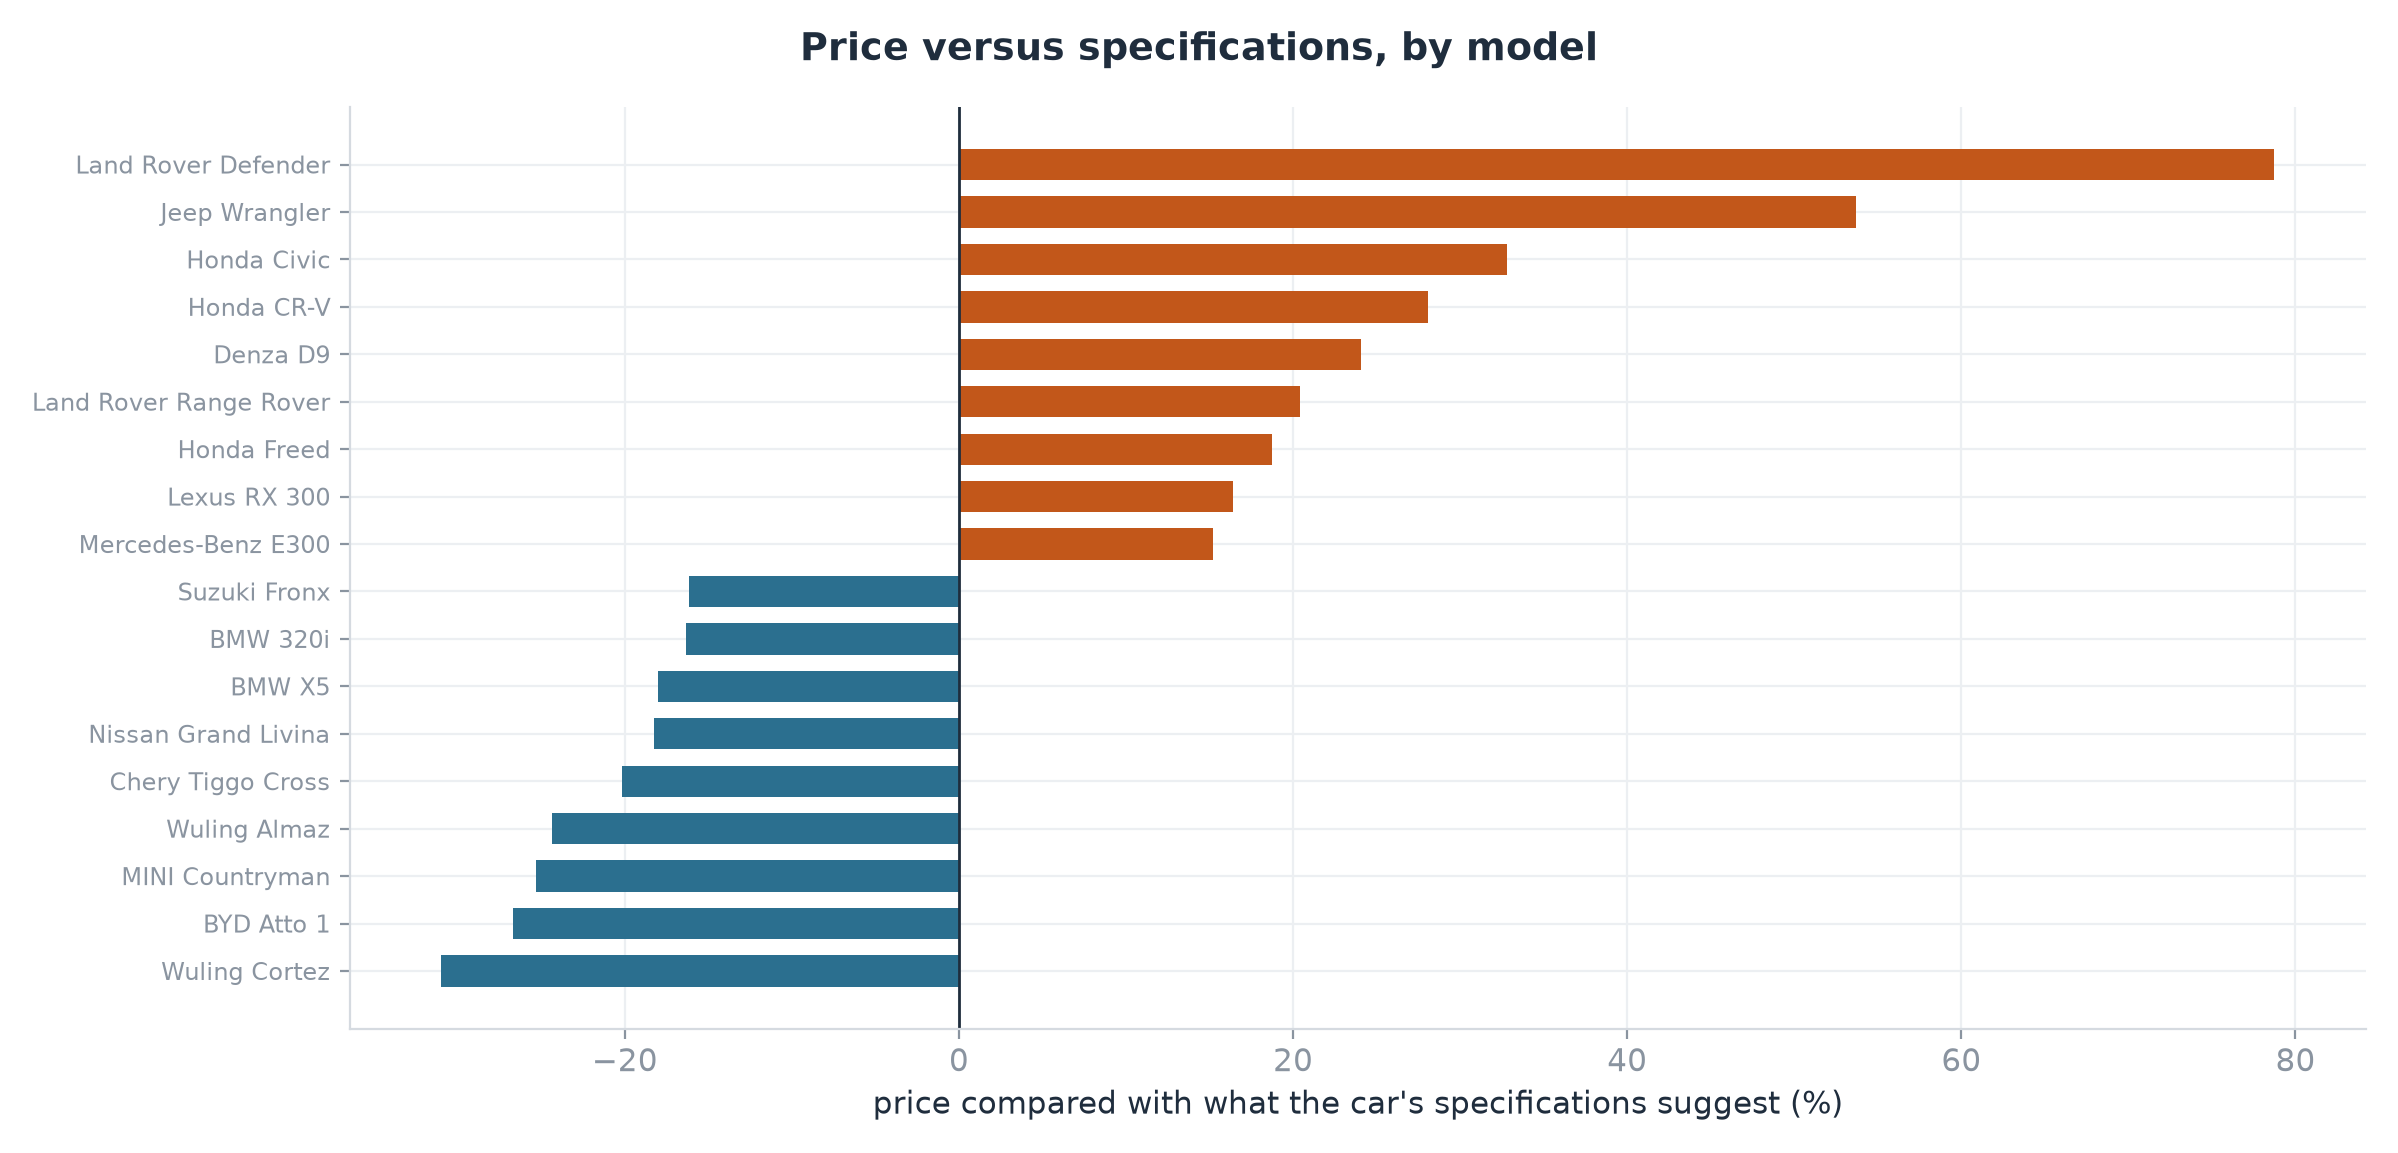
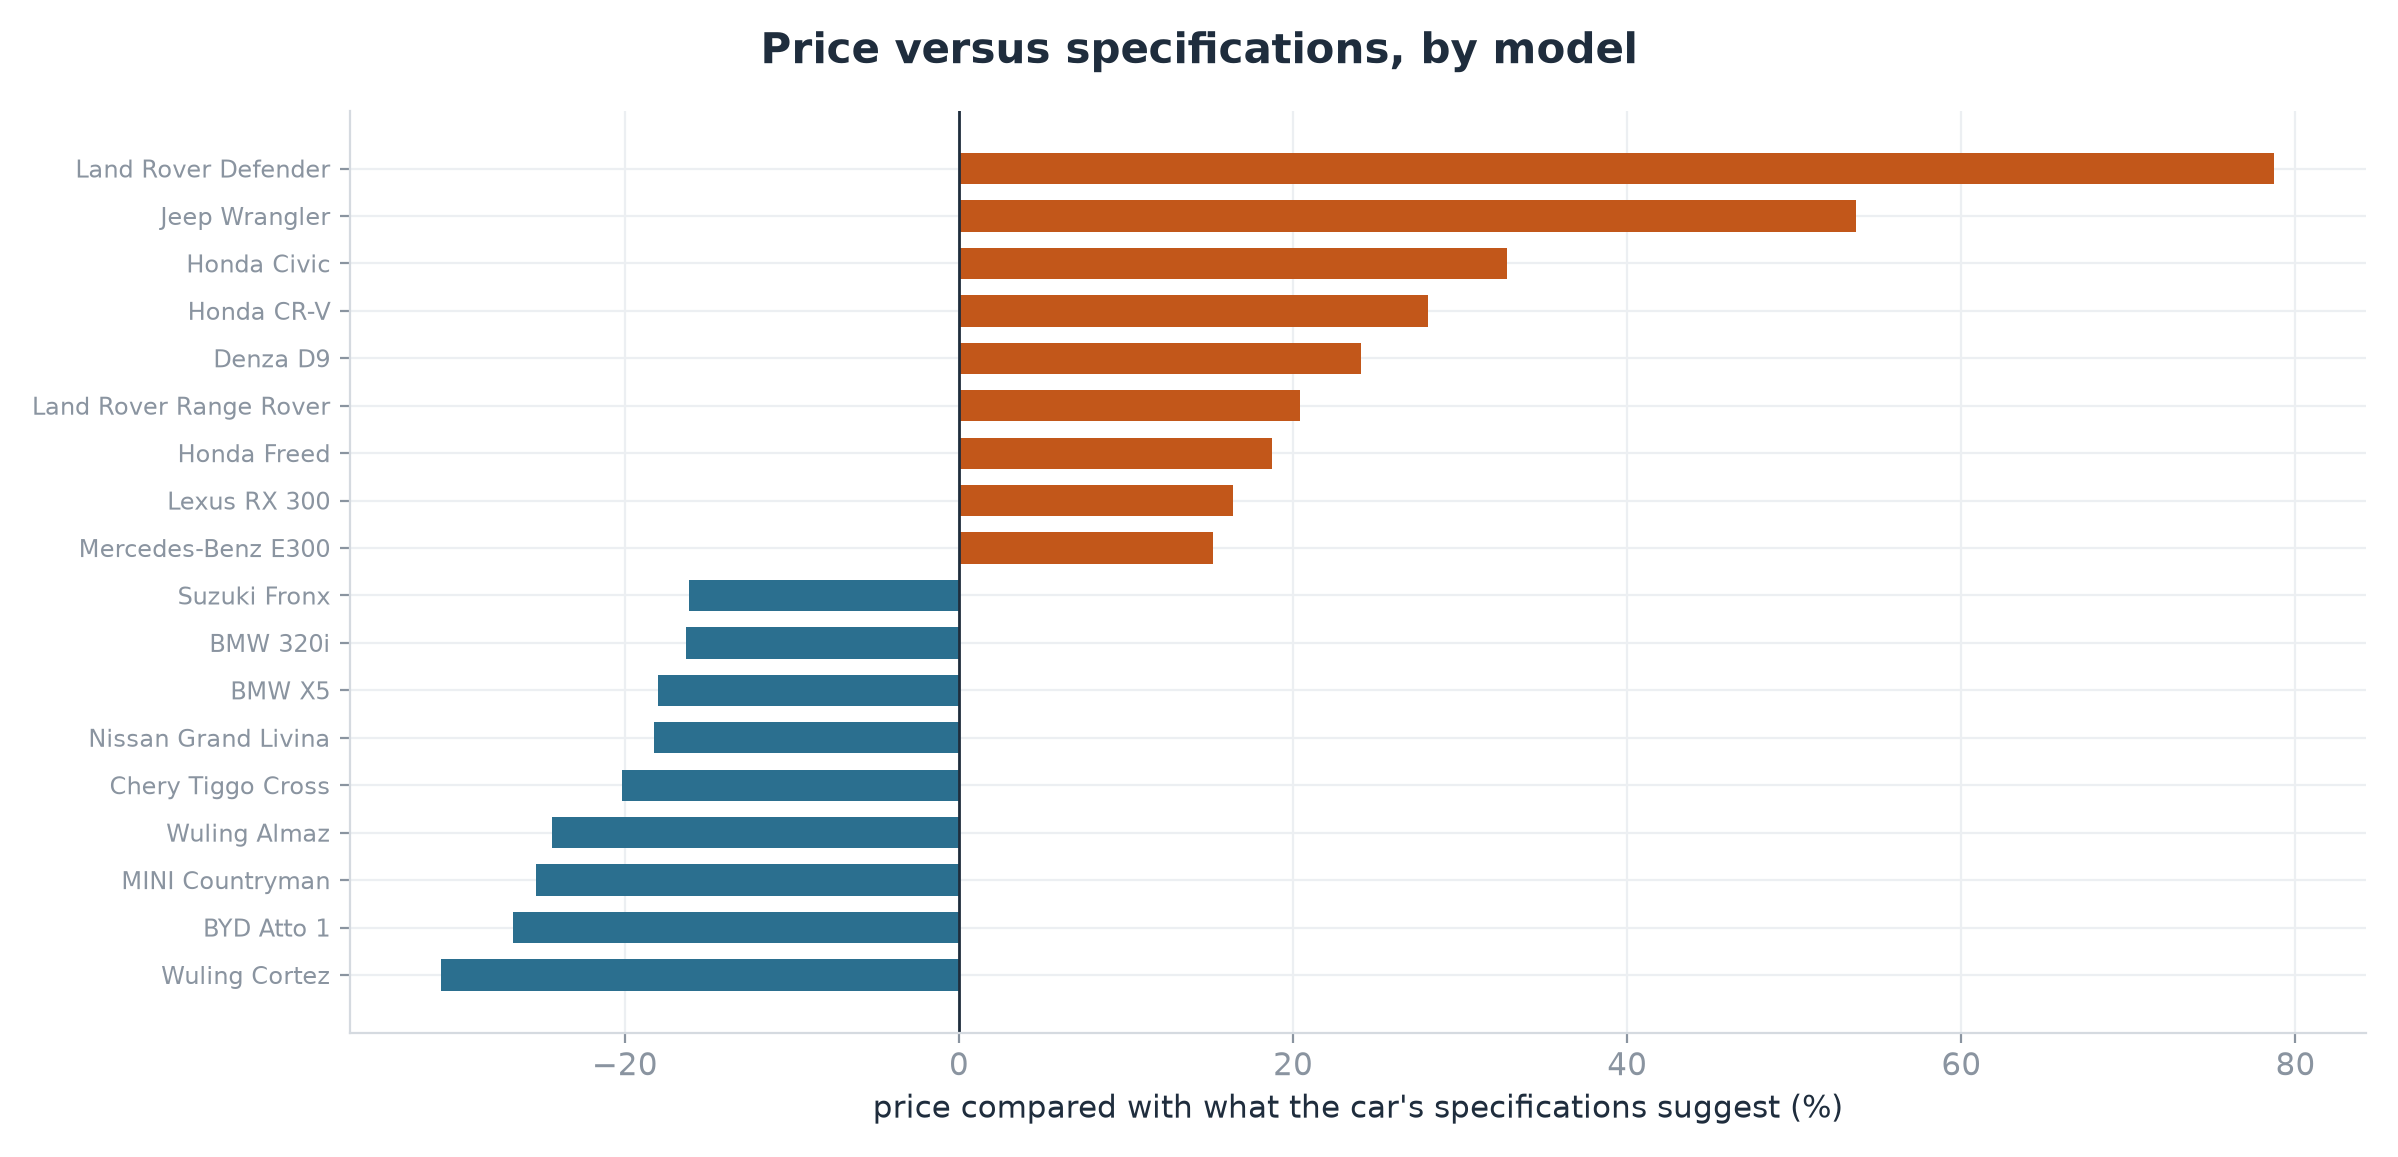
Even out panel titles, enlarge chart titles, and clarify axes and copy
Every panel label is now the same weight and colour, a step below a slightly larger figure title. The mileage and transmission x-axes say which price is subtracted from which, and the captions explain what a negative value means. The retention card bolds only the two key figures, 'dearer' and 'Line up' are replaced, the forward reference between charts is dropped, and the methodology block states that the percentages are errors.

diff --git a/projects/02-used-car-market/index.html b/projects/02-used-car-market/index.html
@@ -114,8 +114,8 @@
                 For every extra year on the road, a Suzuki loses about 4.4% of its value, a
                 Toyota 5.6% and a BMW 13.0%. Everyone knows Japanese cars hold value
                 better; the surprise is how wide the gap is.
-                <strong>Ten years on, a BMW asks roughly a fifth of what a one-year-old
-                one does &mdash; a Suzuki or a Toyota about half.</strong>
+                Ten years on, a BMW asks roughly <strong>a fifth</strong> of what a
+                one-year-old one does &mdash; a Suzuki or a Toyota about <strong>half</strong>.
               </p>
             </div>
 
@@ -123,9 +123,9 @@
               <span class="finding-tag finding-tag--neu">Transmission</span>
               <h2 class="finding-title">An automatic is worth 5.8% more, not 125%</h2>
               <p>
-                Line up every automatic against every manual and the automatic looks 125%
-                dearer. That number is meaningless: it is really comparing family cars with
-                delivery vans. Compare the automatic and manual versions of the
+                Compare every automatic with every manual and the automatic looks 125% more
+                expensive. That number is meaningless: it is really comparing family cars
+                with delivery vans. Compare the automatic and manual versions of the
                 <strong>same model and year</strong> and the gap falls to about
                 <strong>5.8%</strong>.
               </p>
@@ -154,7 +154,7 @@
               extra year of age. The thin lines show how much the brand&rsquo;s own models
               differ. Only brands with at least three models are shown, and the median is
               used instead of an average so that one extremely expensive listing cannot
-              distort the picture.
+              distort the picture. The three that hold value best are picked out in orange.
             </figcaption>
           </figure>
 
@@ -169,7 +169,7 @@
               so a point at 40 means that age sells for 40% of the one-year-old price. The
               dotted line marks half that price. <strong>Read the slope, not the last
               point:</strong> at twelve years old the car is a different generation, so the
-              right-hand end of each curve mixes depreciation with a model change.
+              right-hand end of each curve mixes depreciation with a model change. A single year sitting higher than its neighbour is a model-year effect, such as a new variant, not an error.
             </figcaption>
           </figure>
 
@@ -180,12 +180,13 @@
               loading="lazy" decoding="async" />
             <figcaption>
               <strong>The same comparison, done twice.</strong> On the left every listing is
-              pooled, and an automatic looks 125% dearer &mdash; but that is mostly
+              pooled, and an automatic looks 125% more expensive &mdash; but that is mostly
               comparing expensive family cars with cheap vans. On the right, the automatic
               and manual versions of the <em>same model and year</em> are compared directly:
               the typical gap is 5.8%, likely somewhere between 3.1% and 10.6%. Only one
               such pair is older than five years, so the age pattern on the right is a hint,
-              not a conclusion.
+              not a conclusion. A dot to the left of zero means the automatic was the
+              cheaper of the two.
             </figcaption>
           </figure>
 
@@ -203,7 +204,8 @@
               qualified, with a median odometer of 22,500 km against 62,500 km. Each dot is
               one model-year; the orange band is where the true figure most likely sits,
               between 3.2% and 4.6% cheaper. The honest answer is about
-              <strong>4% cheaper</strong>, not 74%.
+              <strong>4% cheaper</strong>, not 74%. A dot to the left of zero means the
+              high-mileage car asks less.
             </figcaption>
           </figure>
 
@@ -234,8 +236,7 @@
               small. <strong>Right:</strong> how much more each brand asks than its
               cars&rsquo; specifications would suggest, for brands with at least 100
               listings. Orange means the brand adds value; blue means the cars sell below
-              what their specifications imply. The next chart does the same thing model by
-              model.
+              what their specifications imply.
             </figcaption>
           </figure>
 
@@ -245,11 +246,11 @@
               alt="Diverging bar chart of models priced furthest from what their specifications suggest, from Wuling Cortez minus 31 percent to Land Rover Defender plus 78.7 percent."
               loading="lazy" decoding="async" />
             <figcaption>
-              <strong>Where price and specification disagree most.</strong> This is the
-              model-by-model version of the right-hand panel above: blue bars sell for less
-              than their specifications suggest &mdash; either underrated, or hiding a
-              drawback the paperwork cannot show &mdash; and orange bars sell for more. Only
-              models with at least 25 listings appear.
+              One bar per model: how far its asking price sits from what its specifications
+              suggest. Blue means the car sells for less than those specifications imply
+              &mdash; either underrated, or hiding a drawback the paperwork cannot show
+              &mdash; and orange means it sells for more. Only models with at least 25
+              listings appear.
             </figcaption>
           </figure>
 
@@ -277,9 +278,8 @@
                 lookup, so it is not what drives these numbers.
               </p>
               <p>
-                That lookup is a hard act to follow: it already lands within
-                <strong>5.9%</strong> of the real asking price, so any model has to beat it
-                to be worth anything. Gradient boosting does better overall
+                That lookup is already good: its median error is <strong>5.9%</strong>, so any
+                model has to do better than that to be worth anything. Gradient boosting does better overall
                 (<strong>34.8% less error</strong>) but only slightly better on a typical car
                 (<strong>5.6%</strong>) &mdash; most of its advantage sits in rare and
                 expensive models.
@@ -293,8 +293,8 @@
               </p>
             </div>
             <ul class="case-method-stats">
-              <li><strong>5.9%</strong><span>lookup baseline</span></li>
-              <li><strong>5.6%</strong><span>our model</span></li>
+              <li><strong>5.9%</strong><span>median error, lookup baseline</span></li>
+              <li><strong>5.6%</strong><span>median error, our model</span></li>
               <li><strong>+153%</strong><span>error on an unseen model</span></li>
             </ul>
           </aside>
@@ -331,10 +331,10 @@
                 removing 12.3% duplicate listings from the 12,000 scraped from
                 <strong>Mobil123</strong> on 10 November 2026. Every price is an
                 <em>asking</em> price, never a completed sale. 97.7% of the listings come
-                from dealers, so private sellers are almost absent. Brands were sampled with
-                unequal quotas, so each row carries a <em>weight</em> saying how much it
-                should count when a market-wide figure is calculated. Finally, only four
-                provinces list enough cars to compare, so the location finding describes
+                from dealers, so private sellers are almost absent. The sample gives some
+                brands more listings than others, so every car carries a <em>weight</em> that
+                corrects for it whenever a market-wide figure is calculated. Finally, only
+                four provinces list enough cars to compare, so the location finding describes
                 Java, not all of Indonesia.
               </p>
             </section>

diff --git a/projects/02-used-car-market/eda.py b/projects/02-used-car-market/eda.py
@@ -103,7 +103,7 @@ def add_title(fig, text: str, gap: float | None = None) -> None:
         # title than a single bare plot does.
         gap = 0.075 if any(ax.get_title() for ax in fig.axes) else 0.035
     fig.text((left + right) / 2, top + gap, text, ha="center", va="bottom",
-             fontsize=13.5, fontweight="bold")
+             fontsize=15, fontweight="bold")
 
 
 def save(fig, name: str) -> None:
@@ -302,7 +302,7 @@ def chart_transmission(df: pd.DataFrame, cells: pd.DataFrame) -> None:
     ax2.set_yticklabels(["6–9 years", "3–5 years", "0–2 years"], fontsize=9.5)
     ax2.set_ylabel("vehicle age")
     ax2.set_ylim(-0.55, 2.85)
-    ax2.set_xlabel("how much more the automatic version asks (%), same model and year")
+    ax2.set_xlabel("automatic price minus manual price (%), same model and year")
     ax2.set_title("B. Comparing the same model and year", loc="left",
                   pad=10, fontsize=11, color=INK, fontweight="normal")
 
@@ -338,7 +338,7 @@ def chart_mileage(df: pd.DataFrame) -> dict:
     ax1.set_ylabel("median asking price (Rp million)")
     ax1.set_xlabel(f"kilometres on the clock  ·  n={len(all_km):,} listings")
     ax1.set_title(f"A. All listings together — a {100*(1-raw.iloc[-1]/raw.iloc[0]):.0f}% gap",
-                  loc="left", pad=12)
+                  loc="left", pad=10, fontsize=11, color=INK, fontweight="normal")
 
     # B - proper within-cell contrast: the highest-mileage third against the
     # lowest-mileage third *of the same model-year*. Splitting the pooled data
@@ -375,7 +375,7 @@ def chart_mileage(df: pd.DataFrame) -> dict:
     ax2.axvline(med, color=ACCENT, lw=2, zorder=4)
     ax2.set_yticks([])
     ax2.set_ylim(-0.62, 0.78)
-    ax2.set_xlabel("price difference between the highest- and lowest-mileage\nthird of the same model and year (%)")
+    ax2.set_xlabel("high-mileage price minus low-mileage price (%)\nfor the same model and year")
     ax2.set_title("B. Comparing the same model and year", loc="left",
                   pad=10, fontsize=11, color=INK, fontweight="normal")
     ax2.text(med + 1.2, 0.60, f"typical {abs(med):.1f}% cheaper", ha="left", va="center",
@@ -399,7 +399,7 @@ def chart_structure(df: pd.DataFrame) -> None:
     colors = [ACCENT if y == 2020 else COOL for y in years.index]
     axes[0].bar(years.index, years.values, color=colors, width=0.78)
     axes[0].set_title("Listings by model year", loc="left", pad=10,
-                      fontsize=11, color=INK)
+                      fontsize=11, color=INK, fontweight="normal")
     axes[0].set_xlabel("vehicle model year")
     axes[0].set_ylabel("listings")
     axes[0].set_xticks(list(range(2008, 2027, 2)))
@@ -413,7 +413,7 @@ def chart_structure(df: pd.DataFrame) -> None:
     axes[1].invert_yaxis()
     axes[1].set_xlabel("% of listings")
     axes[1].set_title("Body type", loc="left", pad=10,
-                      fontsize=11, color=INK)
+                      fontsize=11, color=INK, fontweight="normal")
 
     origin = df["origin"].value_counts()
     axes[2].barh(np.arange(len(origin)), 100 * origin.values / len(df),
@@ -423,7 +423,7 @@ def chart_structure(df: pd.DataFrame) -> None:
     axes[2].invert_yaxis()
     axes[2].set_xlabel("% of listings")
     axes[2].set_title("Brand origin", loc="left", pad=10,
-                      fontsize=11, color=INK)
+                      fontsize=11, color=INK, fontweight="normal")
 
     add_title(fig, "Marketplace composition")
     save(fig, "05_market_structure.png")

diff --git a/projects/02-used-car-market/model.py b/projects/02-used-car-market/model.py
@@ -129,7 +129,7 @@ def add_title(fig, text: str, gap: float | None = None) -> None:
         # title than a single bare plot does.
         gap = 0.075 if any(ax.get_title() for ax in fig.axes) else 0.035
     fig.text((left + right) / 2, top + gap, text, ha="center", va="bottom",
-             fontsize=13.5, fontweight="bold")
+             fontsize=15, fontweight="bold")
 
 
 # ---------------------------------------------------------------------------
